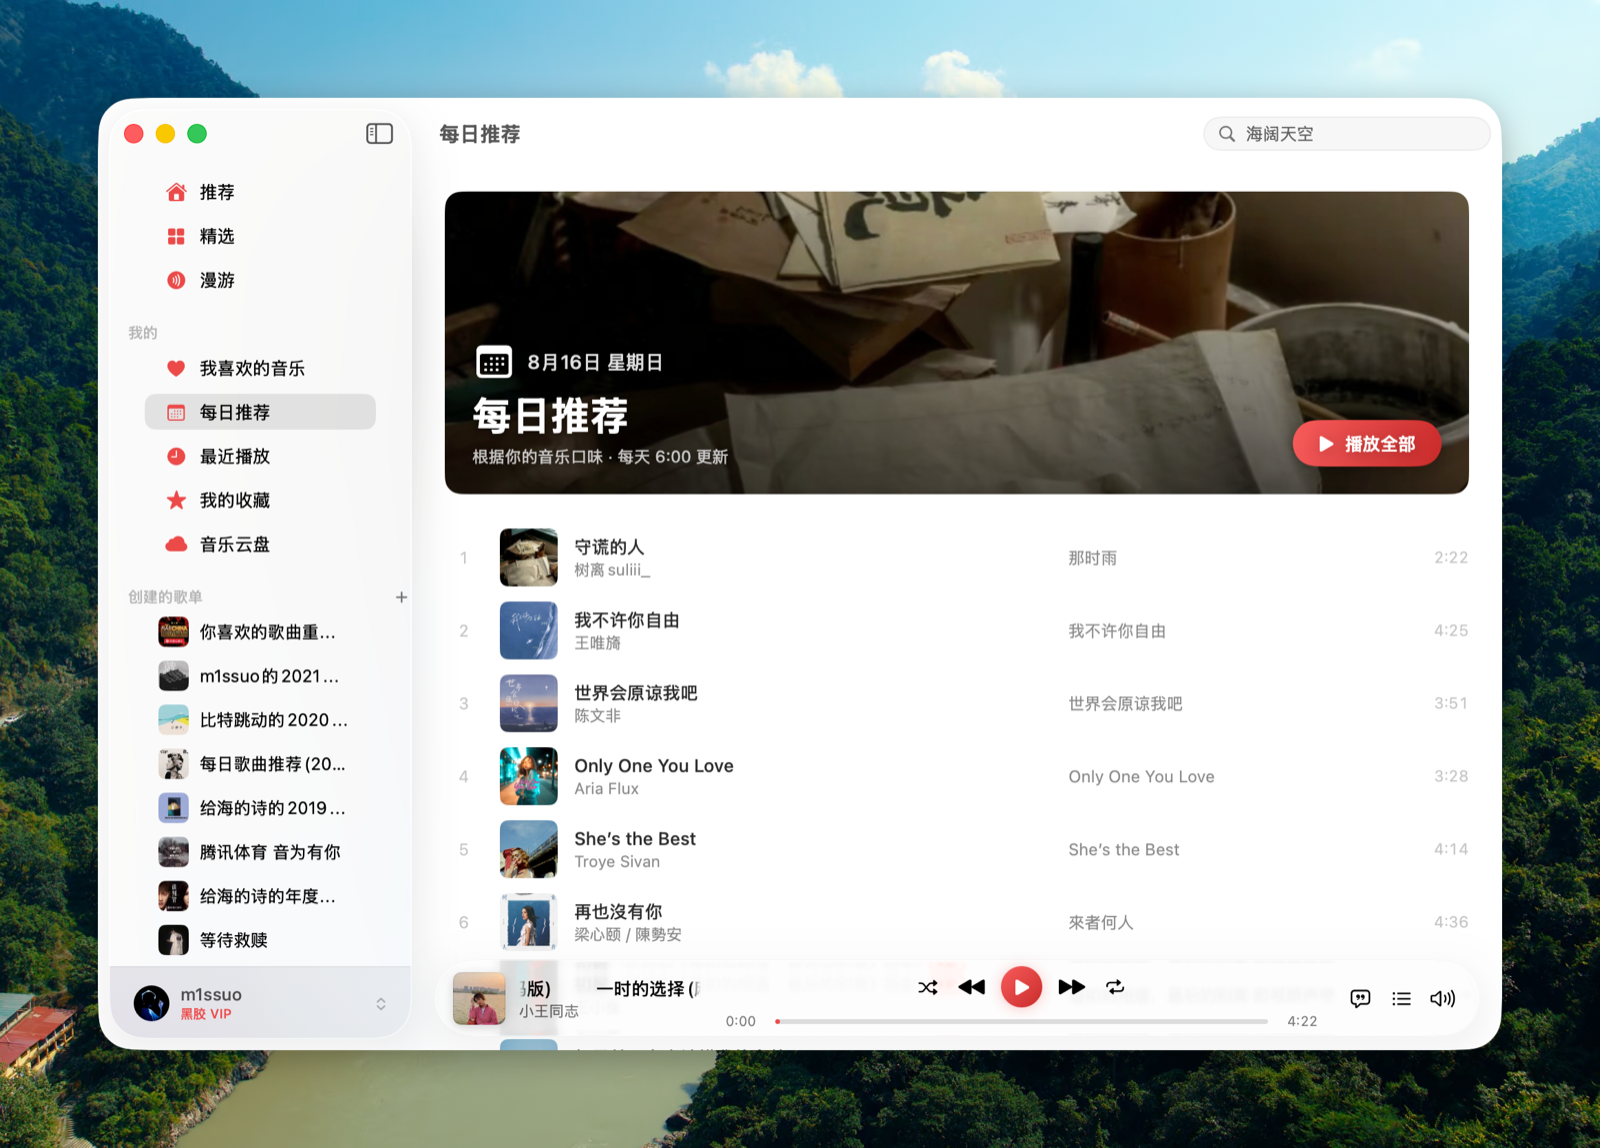
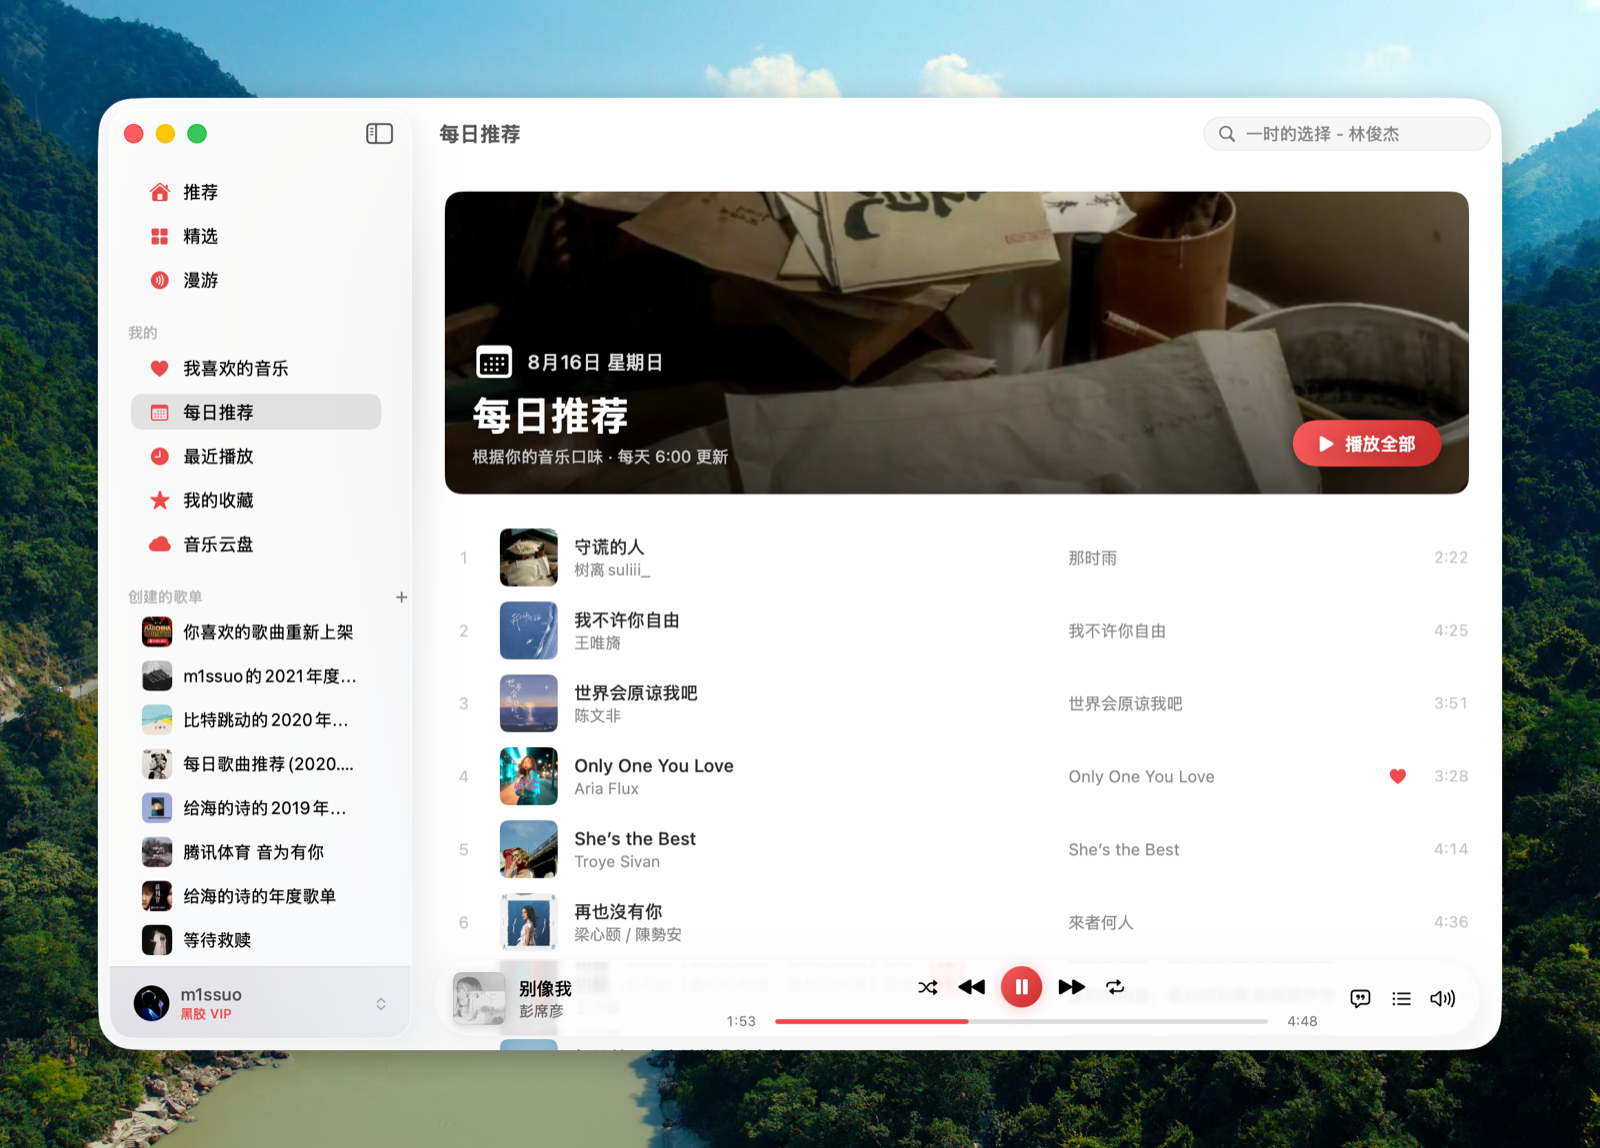
docs: refresh screenshots (post-toolbar/sidebar fixes, add lyrics panel shot)

diff --git a/README.md b/README.md
@@ -19,7 +19,7 @@ SwiftUI 编写 · 直连网易云真实 API · Sparkle 自动更新
   </tr>
   <tr>
     <td><img src="docs/screenshot-daily.png" alt="每日推荐" /></td>
-    <td><img src="docs/screenshot-search.png" alt="搜索" /></td>
+    <td><img src="docs/screenshot-lyrics.png" alt="歌词面板" /></td>
   </tr>
 </table>
 
